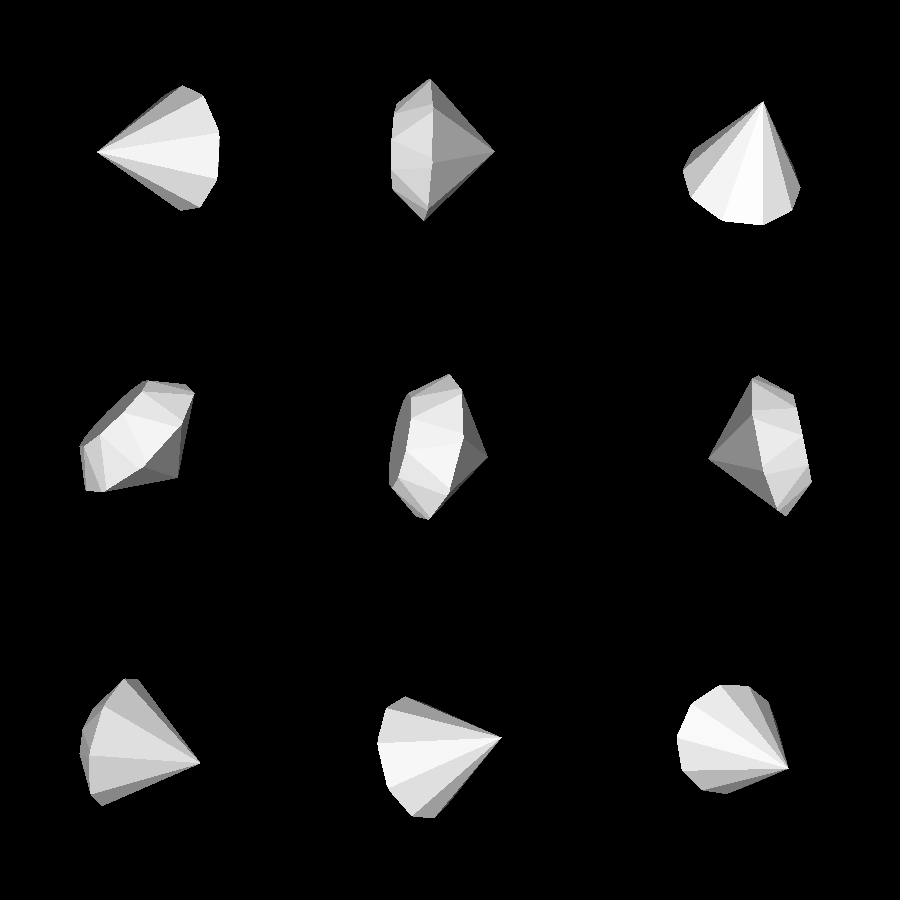
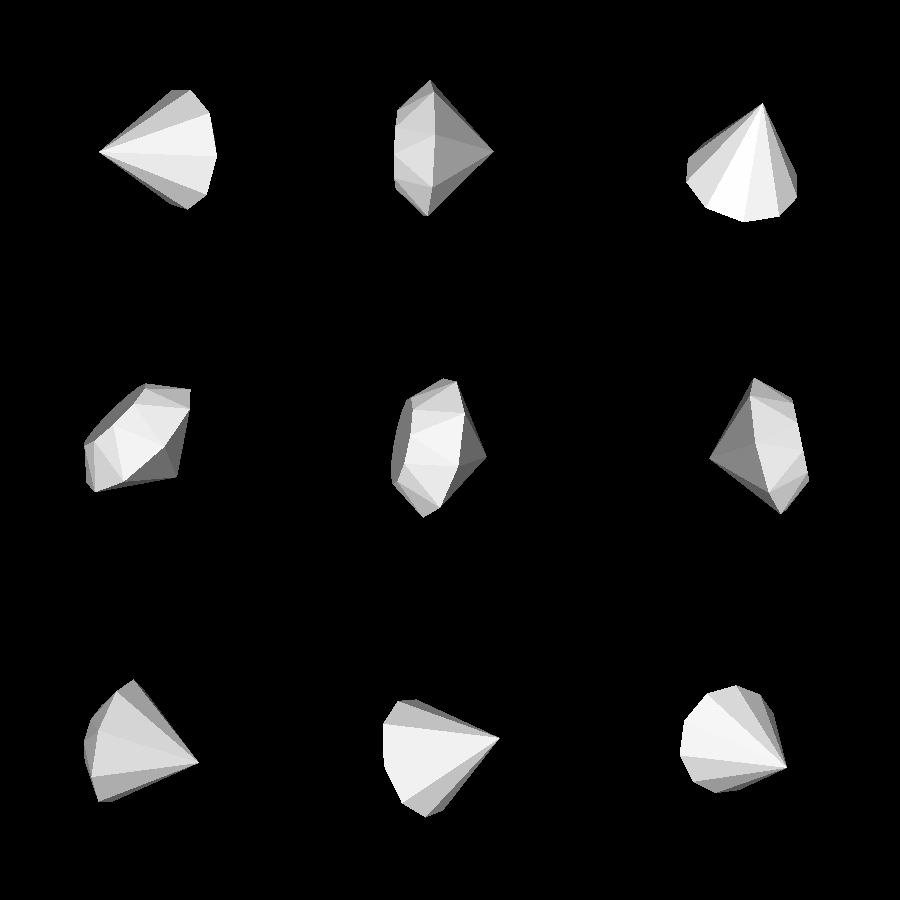
perfect diamond triangulation

diff --git a/examples/decoration/diamond/main.go b/examples/decoration/diamond/main.go
@@ -7,17 +7,78 @@ import (
 	"github.com/unixpickle/model3d"
 )
 
-const NumSides = 12
+const (
+	NumSides   = 12
+	BaseHeight = 0.4
+	TipHeight  = 1.2
+)
 
 func main() {
 	log.Println("Creating diamond polytope...")
-	system := TriangularDiamondPolytope()
+	system := CreateDiamondPolytope()
 	log.Println("Exporting diamond...")
 	mesh := system.Mesh()
 	mesh.SaveGroupedSTL("diamond.stl")
 	model3d.SaveRandomGrid("rendering.png", model3d.MeshToCollider(mesh), 3, 3, 300, 300)
 
 	CreateStand(mesh)
+}
+
+func CreateDiamondPolytope() model3d.ConvexPolytope {
+	system := model3d.ConvexPolytope{
+		&model3d.LinearConstraint{
+			Normal: model3d.Coord3D{Z: -1},
+			Max:    BaseHeight,
+		},
+	}
+
+	addTriangle := func(t *model3d.Triangle) {
+		n := t.Normal()
+
+		// Make sure the normal points outward.
+		if n.Dot(t[0]) < 0 {
+			t[0], t[1] = t[1], t[0]
+		}
+
+		system = append(system, &model3d.LinearConstraint{
+			Normal: t.Normal(),
+			Max:    t[0].Dot(t.Normal()),
+		})
+	}
+
+	iAngle := math.Pi * 2 / NumSides
+	rimPoint := func(i int) model3d.Coord3D {
+		return model3d.Coord3D{
+			X: math.Cos(float64(i) * iAngle),
+			Y: math.Sin(float64(i) * iAngle),
+		}
+	}
+	basePoint := func(i int) model3d.Coord3D {
+		return model3d.Coord3D{
+			X: math.Cos((float64(i) + 0.5) * iAngle),
+			Y: math.Sin((float64(i) + 0.5) * iAngle),
+		}.Scale(1 - BaseHeight).Sub(model3d.Coord3D{Z: BaseHeight})
+	}
+	tipPoint := model3d.Coord3D{Z: TipHeight}
+
+	for i := 0; i < NumSides; i++ {
+		addTriangle(&model3d.Triangle{
+			rimPoint(i),
+			rimPoint(i + 1),
+			tipPoint,
+		})
+		addTriangle(&model3d.Triangle{
+			rimPoint(i),
+			rimPoint(i + 1),
+			basePoint(i),
+		})
+		addTriangle(&model3d.Triangle{
+			basePoint(i),
+			basePoint(i + 1),
+			rimPoint(i + 1),
+		})
+	}
+	return system
 }
 
 func CreateStand(diamond *model3d.Mesh) {
@@ -49,119 +110,4 @@ func CreateStand(diamond *model3d.Mesh) {
 
 	mesh.SaveGroupedSTL("stand.stl")
 	model3d.SaveRandomGrid("rendering_stand.png", model3d.MeshToCollider(mesh), 3, 3, 300, 300)
-}
-
-// TriangularDiamondPolytope creates a polytope for a
-// diamond with a triangular cut base.
-func TriangularDiamondPolytope() model3d.ConvexPolytope {
-	z1 := 0.5
-	z2 := 1.0
-	for {
-		secZ := (z1 + z2) / 2
-		secDelta := OptimalPolytopeDelta(secZ)
-		cp := CreatePolytope(secZ, secDelta)
-		if math.Abs(z2-z1) < 1e-5 {
-			return cp
-		}
-		if PolytopeTriangleScore(cp) < 1e-5 {
-			z2 = secZ
-		} else {
-			z1 = secZ
-		}
-	}
-}
-
-// OptimalPolytopeDelta computes the secondaryDelta that
-// minimizes the area difference between the two equations
-// that govern the base of the diamond.
-func OptimalPolytopeDelta(secZ float64) float64 {
-	areaDelta := func(secDelta float64) float64 {
-		cp := CreatePolytope(secZ, secDelta)
-		m := cp.Mesh()
-		norm1 := cp[1].Normal
-		norm2 := cp[2].Normal
-		var area1, area2 float64
-		m.Iterate(func(t *model3d.Triangle) {
-			if t.Area() < 1e-5 {
-				return
-			}
-			if t.Normal().Dot(norm1) > 1-1e-5 {
-				area1 += t.Area()
-			} else if t.Normal().Dot(norm2) > 1-1e-5 {
-				area2 += t.Area()
-			}
-		})
-		return area1 - area2
-	}
-	d1 := -0.2
-	d2 := 0.2
-	for i := 0; i < 16; i++ {
-		d := (d1 + d2) / 2
-		score := areaDelta(d)
-		if score < 0 {
-			d1 = d
-		} else {
-			d2 = d
-		}
-	}
-	return (d1 + d2) / 2
-}
-
-// PolytopeTriangleScore gives a number measuring how
-// close the bottoms of the diamond's two base equations
-// are. Minimum value is zero, at which point the two
-// equations meet exactly.
-func PolytopeTriangleScore(cp model3d.ConvexPolytope) float64 {
-	norm1 := cp[1].Normal
-	norm2 := cp[2].Normal
-
-	var min1, min2 model3d.Coord3D
-	cp.Mesh().Iterate(func(t *model3d.Triangle) {
-		if t.Area() < 1e-5 {
-			return
-		}
-		if t.Normal().Dot(norm1) > 1-1e-5 {
-			min1 = min1.Min(t.Min())
-		} else if t.Normal().Dot(norm2) > 1-1e-5 {
-			min2 = min2.Min(t.Min())
-		}
-	})
-	return math.Abs(min1.Z - min2.Z)
-}
-
-// CreatePolytope creates a diamond polytope with two
-// parameters that govern the shape of the base.
-// These parameters are intended to be tuned for a
-// perfectly triangular cut on the base.
-func CreatePolytope(secondaryZ, secondaryDelta float64) model3d.ConvexPolytope {
-	system := model3d.ConvexPolytope{
-		&model3d.LinearConstraint{
-			Normal: model3d.Coord3D{Z: -1},
-			Max:    0.4,
-		},
-	}
-	iAngle := math.Pi * 2 / NumSides
-	for i := 0; i < NumSides; i++ {
-		theta := float64(i) * iAngle
-		p1 := model3d.Coord3D{X: math.Cos(theta), Y: math.Sin(theta)}
-		p2 := model3d.Coord3D{X: math.Cos(theta + iAngle/2), Y: math.Sin(theta + iAngle/2)}
-		n1 := model3d.Coord3D{X: p1.X, Y: p1.Y, Z: -secondaryZ}.Normalize()
-		n2 := model3d.Coord3D{X: p2.X, Y: p2.Y, Z: -1}.Normalize()
-		n3 := model3d.Coord3D{X: p1.X, Y: p1.Y, Z: 0.8}.Normalize()
-		system = append(system,
-			&model3d.LinearConstraint{
-				Normal: n1,
-				Max:    n1.Dot(p1),
-			},
-			&model3d.LinearConstraint{
-				Normal: n2,
-				Max:    n2.Dot(p2) + secondaryDelta,
-			},
-			&model3d.LinearConstraint{
-				Normal: n3,
-				Max:    n3.Dot(p1),
-			},
-		)
-	}
-	return system
 }
